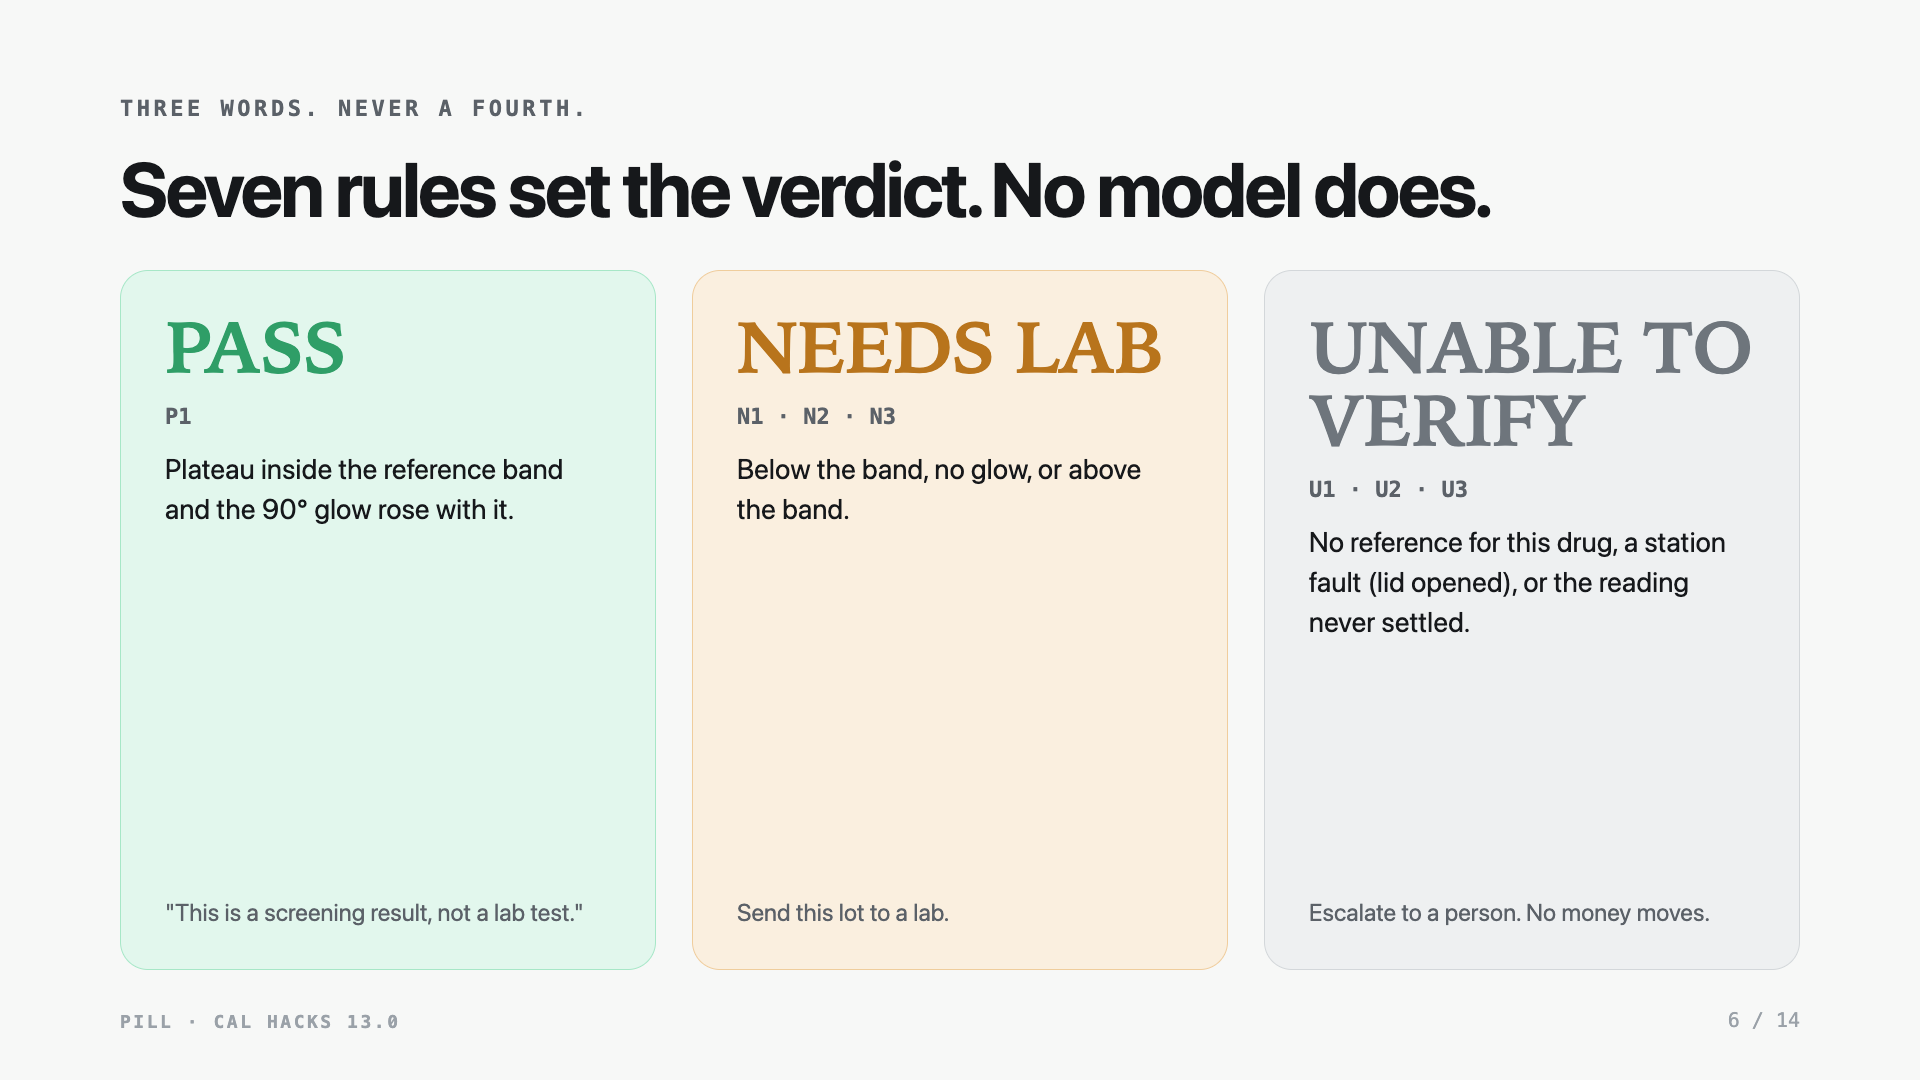
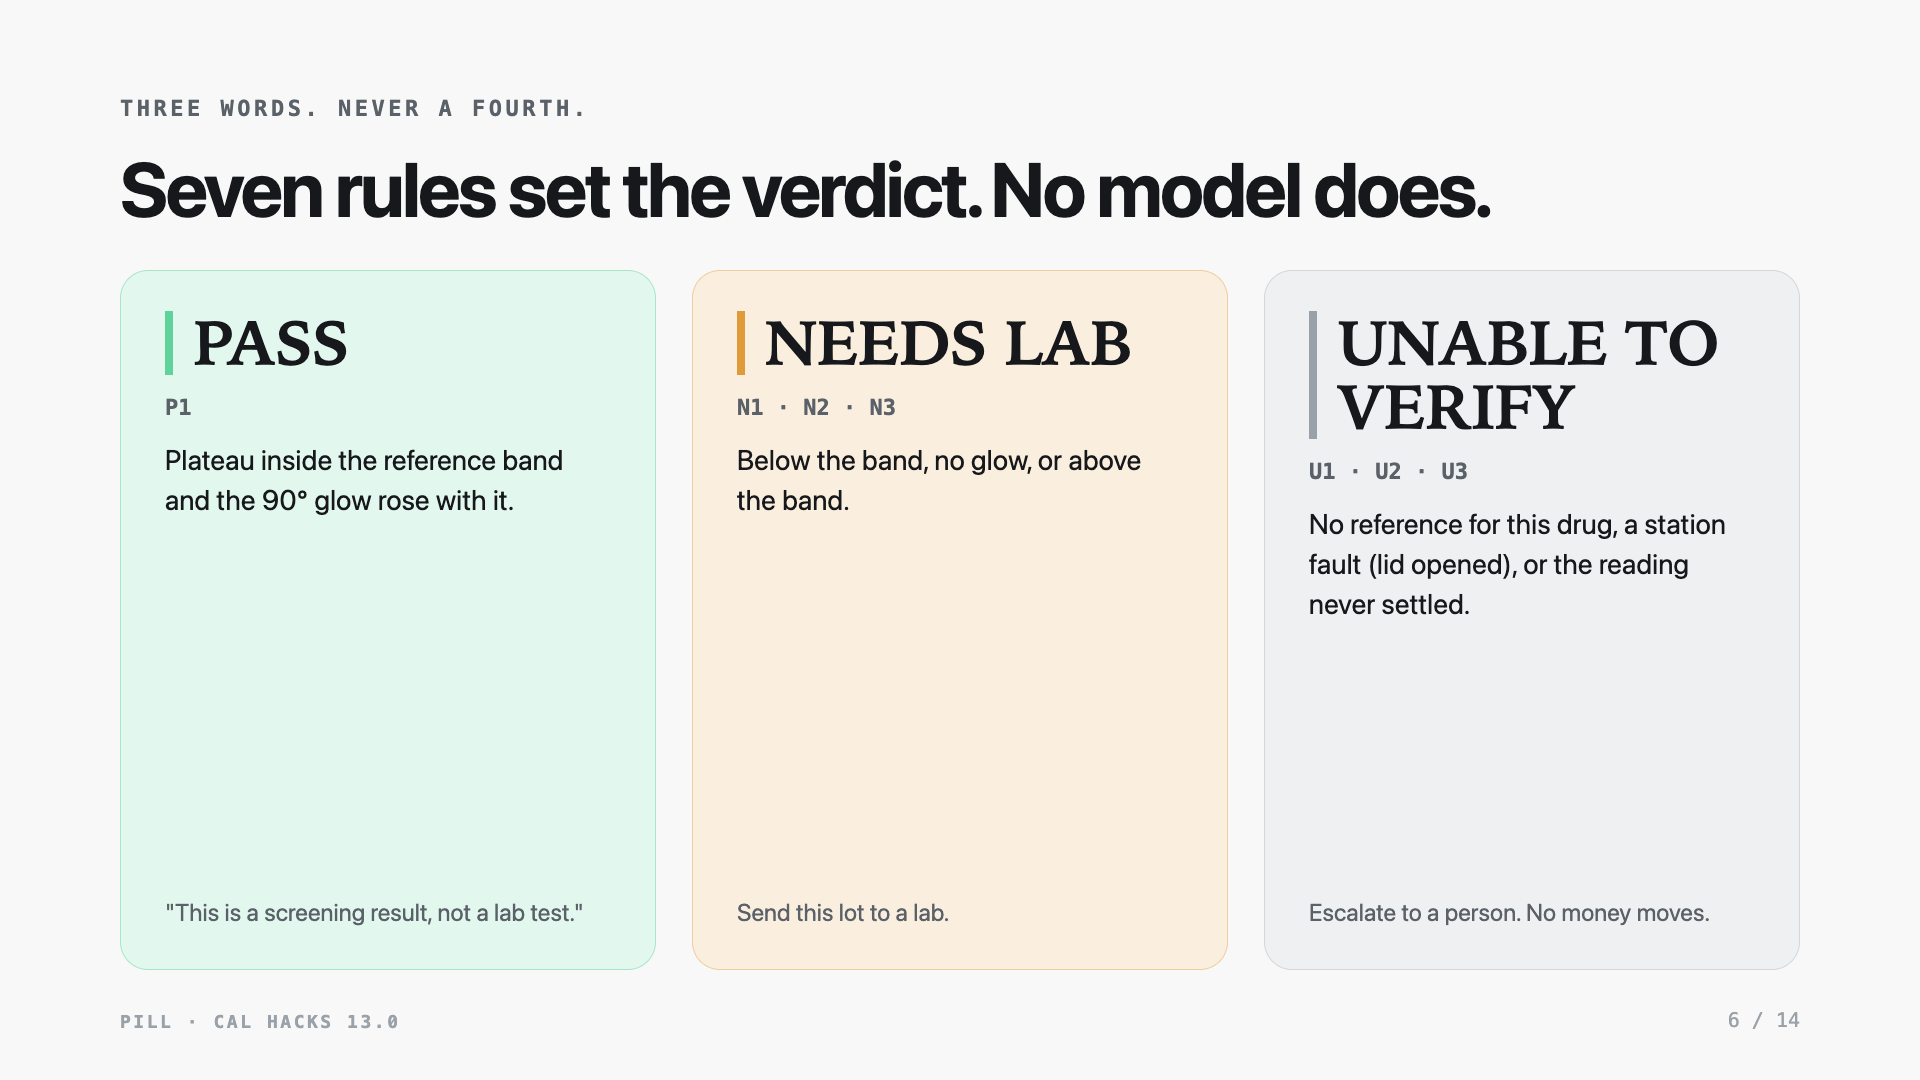
pitch deck: words in ink, colour via tints/rules/chips

diff --git a/pitch/deck/index.html b/pitch/deck/index.html
@@ -33,16 +33,20 @@
   .row { display: flex; gap: 40px; }
   .grow { flex: 1; }
   .card { background: var(--card); border: 1px solid var(--line); border-radius: 28px; padding: 40px 44px; }
-  .chip { display: inline-flex; align-items: center; gap: 10px; font: 600 20px var(--mono); letter-spacing: .08em; padding: 8px 16px; border-radius: 999px; border: 1.5px solid currentColor; }
-  .chip .dot { width: 10px; height: 10px; border-radius: 50%; background: currentColor; }
+  .chip { display: inline-flex; align-items: center; gap: 10px; font: 600 20px var(--mono); letter-spacing: .08em; padding: 8px 16px; border-radius: 999px; color: var(--ink); border: 1.5px solid var(--tone, #C5CBCA); background: var(--tint, #FFFFFF); }
+  .chip .dot { width: 10px; height: 10px; border-radius: 50%; background: var(--tone, #9AA1A8); }
   .v { font-family: var(--serif); font-weight: 600; letter-spacing: -.01em; }
-  .pass { color: #2F9E67; } .needs { color: #B8741C; } .unable { color: #6E757C; }
+  /* tone classes carry colour through lines and fills only; words stay ink */
+  .pass { --tone: var(--mint); --tint: color-mix(in srgb, var(--mint) 18%, white); color: var(--ink); }
+  .needs { --tone: var(--amber); --tint: color-mix(in srgb, var(--amber) 16%, white); color: var(--ink); }
+  .unable { --tone: #9AA1A8; --tint: #EEF0F1; color: var(--ink); }
+  .v, .verdict-big, h3.pass, h3.needs, h3.unable, h3.violet { border-left: 8px solid var(--tone); padding-left: 20px; }
   .bg-pass { background: color-mix(in srgb, var(--mint) 18%, white); border-color: color-mix(in srgb, var(--mint) 55%, white); }
   .bg-needs { background: color-mix(in srgb, var(--amber) 16%, white); border-color: color-mix(in srgb, var(--amber) 50%, white); }
   .bg-unable { background: #EEF0F1; border-color: #D3D7DA; }
   .bg-sky { background: color-mix(in srgb, var(--sky) 12%, white); border-color: color-mix(in srgb, var(--sky) 45%, white); }
   .bg-violet { background: color-mix(in srgb, var(--violet) 10%, white); border-color: color-mix(in srgb, var(--violet) 40%, white); }
-  .pending { font: 600 18px var(--mono); color: #B8741C; background: color-mix(in srgb, var(--amber) 14%, white); border-radius: 8px; padding: 2px 10px; white-space: nowrap; }
+  .pending { font: 600 18px var(--mono); color: var(--ink); background: color-mix(in srgb, var(--amber) 22%, white); border: 1.5px solid var(--amber); border-radius: 8px; padding: 2px 10px; white-space: nowrap; }
   ul.clean { list-style: none; padding: 0; margin: 0; }
   ul.clean li { padding-left: 34px; position: relative; margin-bottom: 16px; }
   ul.clean li::before { content: ""; position: absolute; left: 0; top: 18px; width: 14px; height: 14px; border-radius: 4px; background: var(--sky); }
@@ -70,16 +74,16 @@
   /* 6 three words */
   .words { display: grid; grid-template-columns: repeat(3, 1fr); gap: 36px; flex: 1; }
   .words .card { display: flex; flex-direction: column; gap: 20px; }
-  .words .v { font-size: 72px; line-height: 1.02; }
+  .words .v { font-size: 62px; line-height: 1.04; }
   .rule { font: 600 22px var(--mono); color: var(--muted); }
 
   /* 7 run */
   .steps { display: grid; grid-template-columns: repeat(5, 1fr); gap: 22px; }
-  .step { background: var(--card); border: 1px solid var(--line); border-radius: 24px; padding: 28px 26px; min-height: 260px; }
-  .step .n { font: 700 22px var(--mono); color: var(--sky); }
+  .step { background: var(--card); border: 1px solid var(--line); border-top: 6px solid var(--sky); border-radius: 24px; padding: 28px 26px; min-height: 260px; }
+  .step .n { font: 700 22px var(--mono); color: var(--ink); }
   .step h3 { font-size: 30px; margin: 14px 0 10px; }
   .step p { font-size: 24px; line-height: 1.38; color: #3A3F45; }
-  .step.money-step .n { color: var(--violet); }
+  .step.money-step { border-top-color: var(--violet); }
 
   /* 8 app grid */
   .shots { display: grid; grid-template-columns: repeat(8, 1fr); gap: 16px; align-items: start; }
@@ -97,7 +101,8 @@
   .s-cb h2 { color: var(--ink); }
   .term { background: #15131F; color: #E7E3FF; border-radius: 24px; padding: 32px 36px; font: 400 23px/1.55 var(--mono); white-space: pre; overflow: hidden; }
   .term .c { color: #8F84B8; } .term .k { color: #B7A6FF; } .term .ok { color: var(--mint); } .term .w { color: #FFC37A; }
-  .violet { color: var(--violet); }
+  .violet { --tone: var(--violet); color: var(--ink); }
+  .eyebrow.violet { align-self: flex-start; background: color-mix(in srgb, var(--violet) 12%, white); border-left: 6px solid var(--violet); padding: 10px 18px; border-radius: 6px; }
 
   /* 11 real vs sim */
   .rvs { display: grid; grid-template-columns: 1fr 1fr; gap: 40px; flex: 1; }
@@ -111,6 +116,7 @@
   .track b { font: 650 26px/1.2 var(--sans); display: block; margin-bottom: 8px; }
   .track span { font: 400 21px/1.35 var(--sans); color: #3A3F45; }
   .track.cond { border-style: dashed; }
+  .track.bg-violet { background: color-mix(in srgb, var(--violet) 12%, white); border-color: color-mix(in srgb, var(--violet) 45%, white); border-left: 6px solid var(--violet); }
 
   /* 14 thanks */
   .qrs { display: grid; grid-template-columns: repeat(4, 1fr); gap: 36px; margin-top: 48px; }
@@ -156,7 +162,7 @@
         <rect x="80" y="170" width="840" height="76" fill="#4FB3FF" opacity=".12"/>
         <line x1="80" y1="170" x2="920" y2="170" stroke="#4FB3FF" stroke-dasharray="8 8" stroke-width="2"/>
         <line x1="80" y1="246" x2="920" y2="246" stroke="#4FB3FF" stroke-dasharray="8 8" stroke-width="2"/>
-        <text x="900" y="160" text-anchor="end" font-family="ui-monospace, Menlo, monospace" font-size="22" fill="#2A7FC2">reference band 0.36–0.47</text>
+        <text x="900" y="160" text-anchor="end" font-family="ui-monospace, Menlo, monospace" font-size="22" fill="#16181B">reference band 0.36–0.47</text>
         <line x1="80" y1="490" x2="920" y2="490" stroke="#16181B" stroke-width="2"/>
         <line x1="80" y1="40" x2="80" y2="490" stroke="#16181B" stroke-width="2"/>
         <text x="80" y="530" font-family="ui-monospace, Menlo, monospace" font-size="22" fill="#5B6168">0 s</text>
@@ -403,7 +409,7 @@
   <h2 style="margin-bottom:32px">One build, read from many sides.</h2>
   <div class="tracks">
     <div class="track"><b>Hyphenate</b><span>an autonomous finance agent that knows when to ask</span></div>
-    <div class="track"><b class="violet">Coinbase x402</b><span>earns and pays verdicts; escrow on testnet</span></div>
+    <div class="track bg-violet"><b>Coinbase x402</b><span>earns and pays verdicts; escrow on testnet</span></div>
     <div class="track"><b>Capital One Nessie</b><span>the fiat mirror of the same escrow</span></div>
     <div class="track"><b>Microsoft</b><span>production-minded healthcare agent</span></div>
     <div class="track"><b>Anthropic</b><span>Claude explains and logs; never decides</span></div>
